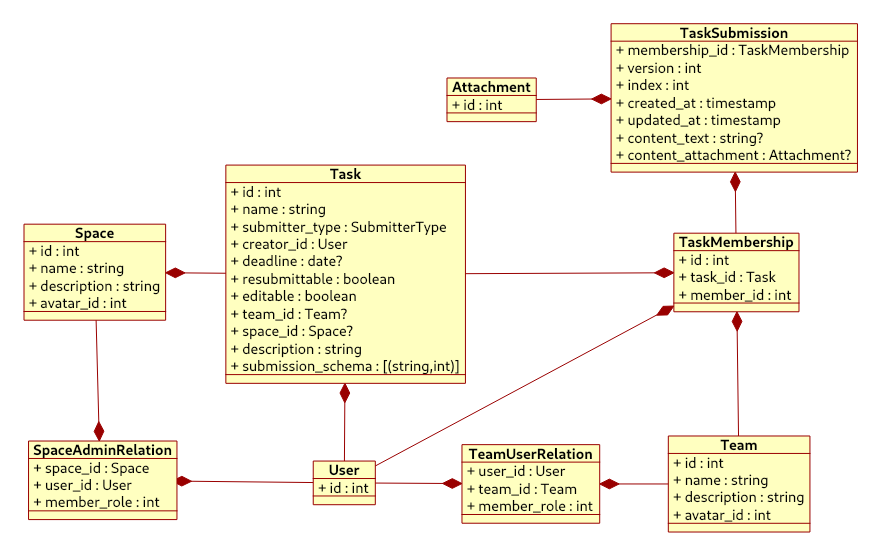
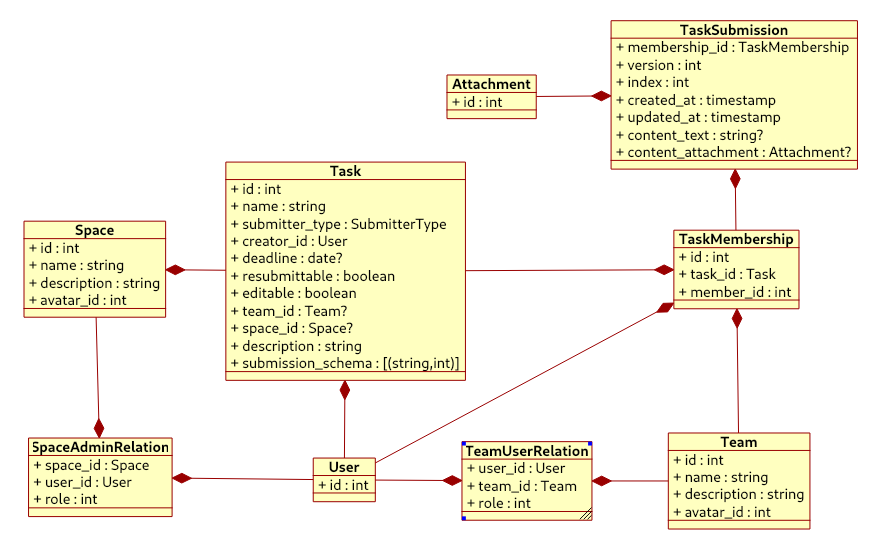
feat: complete entities

diff --git a/src/main/kotlin/org/rucca/cheese/attachment/Attachment.kt b/src/main/kotlin/org/rucca/cheese/attachment/Attachment.kt
@@ -1,0 +1,51 @@
+/*
+ * DO NOT MODIFY THIS FILE
+ *
+ * Since cheese-backend is migrating from NestJS to Spring Boot,
+ * some modules are still implemented in https://github.com/SageSeekerSociety/cheese-backend
+ *
+ * However, some tables are shared between the two implementations.
+ * This file is one of them.
+ *
+ * The original project has an independent database schema, so if you modify this file,
+ * the original project may not work properly.
+ *
+ */
+
+/*
+ * For the same reason, we recommend you take these tables as read-only,
+ * that means, do not do any write operations (INSERT, UPDATE, DELETE) to these tables.
+ *
+ * We expect these tables to be maintained by the original project,
+ * until we decide to fully migrate to Spring Boot.
+ *
+ */
+
+package org.rucca.cheese.attachment
+
+import jakarta.persistence.*
+import org.hibernate.annotations.JdbcTypeCode
+import org.hibernate.type.SqlTypes
+
+enum class AttachmentType {
+    IMAGE,
+    VIDEO,
+    AUDIO,
+    FILE
+}
+
+@Entity
+@Table(name = "attachment")
+open class Attachment {
+    @Id
+    @GeneratedValue(strategy = GenerationType.SEQUENCE, generator = "attachment_id_gen")
+    @SequenceGenerator(name = "attachment_id_gen", sequenceName = "attachment_id_seq", allocationSize = 1)
+    @Column(name = "id", nullable = false)
+    open var id: Int? = null
+
+    @Column(name = "url", nullable = false, length = Integer.MAX_VALUE) open var url: String? = null
+
+    @JdbcTypeCode(SqlTypes.JSON) @Column(name = "meta", nullable = false) open var meta: MutableMap<String, Any>? = null
+
+    @Column(name = "type", columnDefinition = "AttachmentType", nullable = false) open var type: AttachmentType? = null
+}

diff --git a/src/main/kotlin/org/rucca/cheese/task/TaskEntity.kt b/src/main/kotlin/org/rucca/cheese/task/TaskEntity.kt
@@ -9,14 +9,21 @@ import org.rucca.cheese.common.persistent.BaseEntity
 import org.rucca.cheese.common.persistent.IdType
 import org.rucca.cheese.space.Space
 import org.rucca.cheese.team.Team
-import org.rucca.cheese.user.UserEntity
+import org.rucca.cheese.user.User
 import org.springframework.data.jpa.repository.JpaRepository
+
+enum class TaskSubmitterType {
+    USER,
+    TEAM,
+}
+
+@Embeddable class TaskSubmissionSchema(val key: String, val value: Int)
 
 @Entity
 class Task(
         val name: String,
         val submitterType: TaskSubmitterType,
-        @ManyToOne val creator: UserEntity,
+        @ManyToOne val creator: User,
         val deadline: Date,
         val resubmittable: Boolean,
         val editable: Boolean,
@@ -25,12 +32,5 @@ class Task(
         val description: String,
         @ElementCollection val submissionSchema: List<TaskSubmissionSchema>,
 ) : BaseEntity()
-
-enum class TaskSubmitterType {
-    USER,
-    TEAM,
-}
-
-@Embeddable class TaskSubmissionSchema(val key: String, val value: Int)
 
 interface TaskRepository : JpaRepository<Task, IdType>

diff --git a/src/main/kotlin/org/rucca/cheese/user/UserEntity.kt b/src/main/kotlin/org/rucca/cheese/user/UserEntity.kt
@@ -36,7 +36,7 @@ import org.springframework.data.jpa.repository.JpaRepository
                 [
                         Index(name = "IDX_78a916df40e02a9deb1c4b75ed", columnList = "username", unique = true),
                         Index(name = "IDX_e12875dfb3b1d92d7d7c5377e2", columnList = "email", unique = true)])
-open class UserEntity {
+open class User {
     @Id
     @GeneratedValue(strategy = GenerationType.SEQUENCE, generator = "user_id_gen")
     @SequenceGenerator(name = "user_id_gen", sequenceName = "user_id_seq", allocationSize = 1)
@@ -61,4 +61,4 @@ open class UserEntity {
     @Column(name = "deleted_at") open var deletedAt: OffsetDateTime? = null
 }
 
-interface UserRepository : JpaRepository<UserEntity, Int>
+interface UserRepository : JpaRepository<User, Int>

diff --git a/src/main/kotlin/org/rucca/cheese/space/SpaceAdminRelationEntity.kt b/src/main/kotlin/org/rucca/cheese/space/SpaceAdminRelationEntity.kt
@@ -1,12 +1,11 @@
-package org.rucca.cheese.SpaceAdminRelation
+package org.rucca.cheese.space
 
 import jakarta.persistence.Entity
 import jakarta.persistence.ManyToOne
 import org.rucca.cheese.common.persistent.BaseEntity
-import org.rucca.cheese.space.Space
-import org.rucca.cheese.user.UserEntity
+import org.rucca.cheese.user.User
 
-enum class MemberRole {
+enum class SpaceMemberRole {
     ADMIN,
     MEMBER
 }
@@ -14,6 +13,6 @@ enum class MemberRole {
 @Entity
 class SpaceAdminRelationEntity(
         @ManyToOne val space: Space,
-        @ManyToOne val user: UserEntity,
-        val memberRole: MemberRole,
+        @ManyToOne val user: User,
+        val role: SpaceMemberRole,
 ) : BaseEntity()

diff --git a/src/main/kotlin/org/rucca/cheese/task/TaskSubmission.kt b/src/main/kotlin/org/rucca/cheese/task/TaskSubmission.kt
@@ -1,6 +1,15 @@
 package org.rucca.cheese.task
 
 import jakarta.persistence.Entity
+import jakarta.persistence.ManyToOne
+import org.rucca.cheese.attachment.Attachment
 import org.rucca.cheese.common.persistent.BaseEntity
 
-@Entity class TaskSubmission() : BaseEntity()
+@Entity
+class TaskSubmission(
+        @ManyToOne val membership: TaskMembership,
+        val version: Int,
+        val index: Int,
+        val contentText: String?,
+        @ManyToOne val contentAttachment: Attachment?,
+) : BaseEntity()

diff --git a/src/main/kotlin/org/rucca/cheese/team/TeamUserRelationEntity.kt b/src/main/kotlin/org/rucca/cheese/team/TeamUserRelationEntity.kt
@@ -1,0 +1,19 @@
+package org.rucca.cheese.team
+
+import jakarta.persistence.Entity
+import jakarta.persistence.ManyToOne
+import org.rucca.cheese.common.persistent.BaseEntity
+import org.rucca.cheese.user.User
+
+enum class TeamMemberRole {
+    OWNER,
+    ADMIN,
+    MEMBER,
+}
+
+@Entity
+class TeamUserRelationEntity(
+        @ManyToOne val user: User,
+        @ManyToOne val team: Team,
+        val role: TeamMemberRole,
+) : BaseEntity()

diff --git a/src/test/kotlin/org/rucca/cheese/auth/UserCreatorService.kt b/src/test/kotlin/org/rucca/cheese/auth/UserCreatorService.kt
@@ -35,7 +35,7 @@ class UserCreatorService(
             avatarId: IdType = testAvatarId(),
             intro: String = testIntro(),
     ): CreateUserResponse {
-        val userEntity = UserEntity()
+        val userEntity = User()
         userEntity.username = username
         userEntity.hashedPassword = BCrypt.withDefaults().hashToString(12, password.toCharArray())
         userEntity.email = email

diff --git a/src/main/kotlin/org/rucca/cheese/user/UserProfileEntity.kt b/src/main/kotlin/org/rucca/cheese/user/UserProfileEntity.kt
@@ -62,7 +62,7 @@ open class UserProfile {
 
     @OneToOne(fetch = FetchType.LAZY, optional = false)
     @JoinColumn(name = "user_id", nullable = false)
-    open var userEntity: UserEntity? = null
+    open var userEntity: User? = null
 
     @ManyToOne(fetch = FetchType.LAZY, optional = false)
     @JoinColumn(name = "avatar_id", nullable = false)
